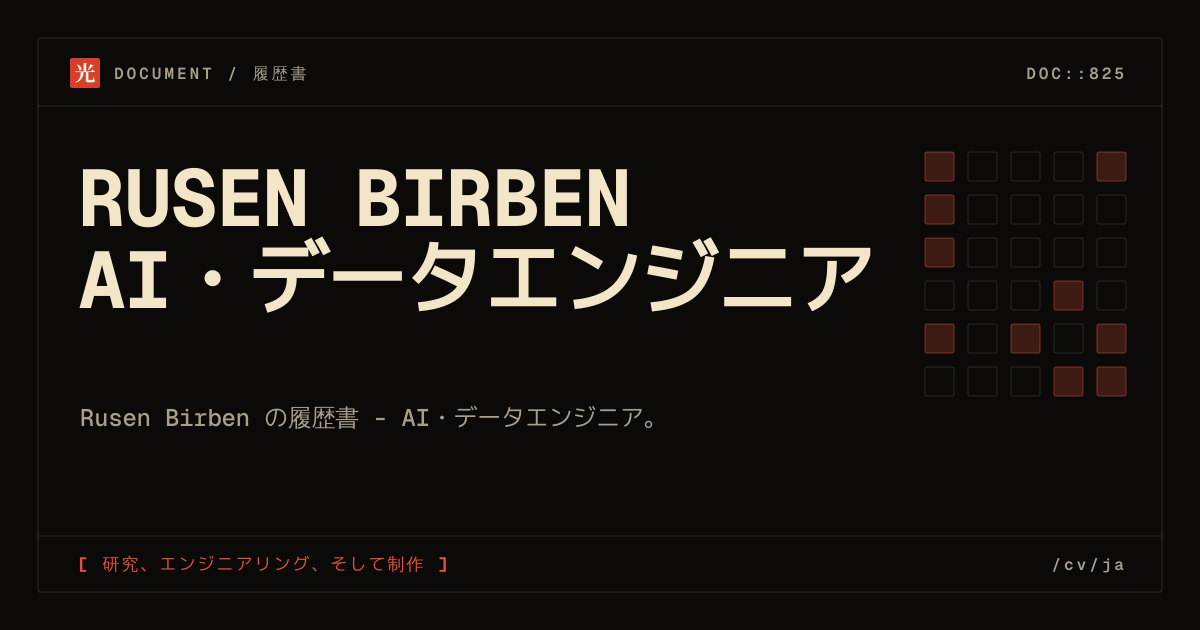
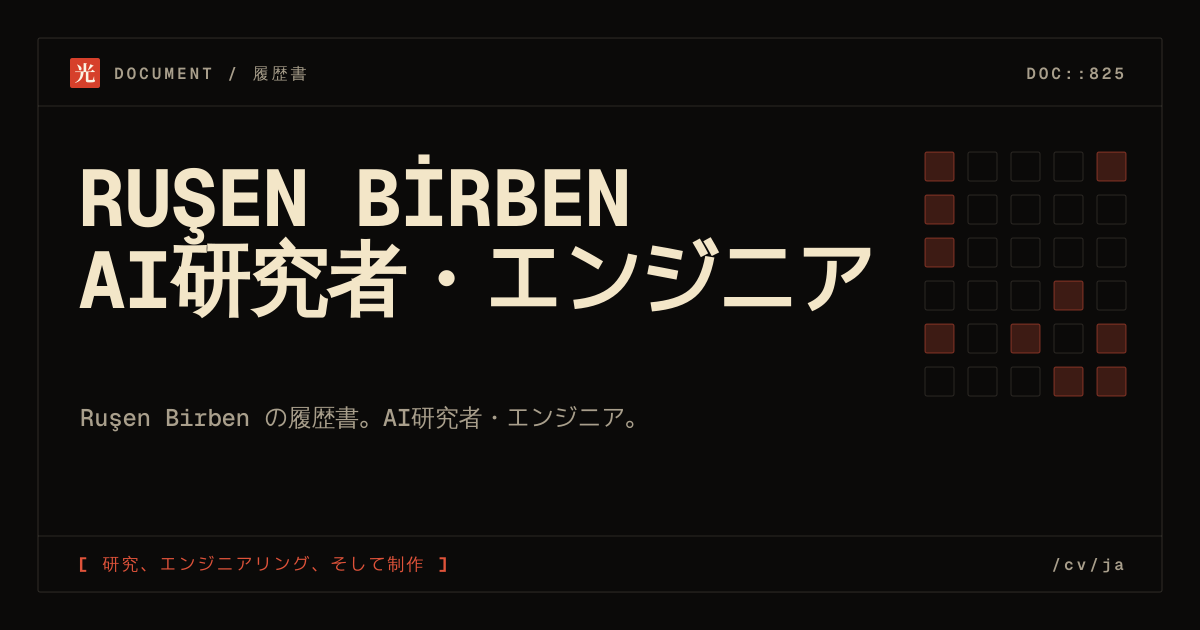
Titles and share text: rusen.ai, Ruşen Birben, new home line
Home tab is now "rusen.ai · Ruşen Birben" (was the old "AI & Data
Engineering Portfolio"), page titles use " · rusen.ai", CV describes an
AI researcher and engineer, and the home share card carries the hero quote.
Social cards rebuilt.

Changed region(s): [[0.1233, 0.3619, 0.4008, 0.5127], [0.3083, 0.6333, 0.5242, 0.6937], [0.3392, 0.2413, 0.37, 0.2714]]

diff --git a/src/app/blogs/tag/[tag]/page.tsx b/src/app/blogs/tag/[tag]/page.tsx
@@ -40,15 +40,15 @@ export async function generateMetadata({
   const postCount = matching.reduce((sum, item) => sum + item.count, 0);
   const metadataLang = matching[0].lang;
   const description = metadataLang === "tr"
-    ? `Rusen.ai üzerinde #${displayTag} etiketiyle yayımlanan ${postCount} yazı.`
-    : `${postCount} ${postCount === 1 ? "essay" : "essays"} filed under #${displayTag} on Rusen.ai.`;
+    ? `rusen.ai üzerinde #${displayTag} etiketiyle yayımlanan ${postCount} yazı.`
+    : `${postCount} ${postCount === 1 ? "essay" : "essays"} filed under #${displayTag} on rusen.ai.`;
 
   return buildSocialMetadata({
-    title: `#${displayTag} | Rusen.ai Blog`,
+    title: `#${displayTag} · rusen.ai blog`,
     description,
     path: `/blogs/tag/${tag}`,
     image: blogTagImagePath(tag),
-    imageAlt: `#${displayTag} — Rusen.ai blog archive`,
+    imageAlt: `#${displayTag} — rusen.ai blog archive`,
     locale: metadataLang === "tr" ? "tr_TR" : "en_US",
   });
 }

diff --git a/src/app/blogs/[slug]/page.tsx b/src/app/blogs/[slug]/page.tsx
@@ -63,17 +63,17 @@ export async function generateMetadata({
     ...(sibling ? { [sibling.lang]: `/blogs/${sibling.slug}` } : {}),
   };
   const meta = buildSocialMetadata({
-    title: `${post.title} | Rusen.ai`,
+    title: `${post.title} · rusen.ai`,
     description: post.description,
     path: `/blogs/${post.slug}`,
     image: blogPostImagePath(post.slug),
-    imageAlt: `${post.title} — Rusen.ai blog`,
+    imageAlt: `${post.title} — rusen.ai blog`,
     type: "article",
     locale: post.lang === "tr" ? "tr_TR" : "en_US",
     languages,
     article: {
       publishedTime: post.date,
-      authors: ["Rusen Birben"],
+      authors: [PERSON.name],
       tags: post.tags,
     },
   });

diff --git a/src/app/blogs/series/[id]/page.tsx b/src/app/blogs/series/[id]/page.tsx
@@ -28,11 +28,11 @@ export async function generateMetadata({
   if (!series) return {};
   const description = `${series.posts.length} connected essays in the ${series.title.en} series.`;
   return buildSocialMetadata({
-    title: `${series.title.en} | Rusen.ai`,
+    title: `${series.title.en} · rusen.ai`,
     description,
     path: `/blogs/series/${series.id}`,
     image: blogSeriesImagePath(series.id),
-    imageAlt: `${series.title.en} — Rusen.ai essay series`,
+    imageAlt: `${series.title.en} — rusen.ai essay series`,
   });
 }
 

diff --git a/src/lib/social-metadata.test.ts b/src/lib/social-metadata.test.ts
@@ -36,7 +36,7 @@ describe("social metadata", () => {
     const metadata = buildProjectMetadata("emergence");
     const image = firstOpenGraphImage(metadata);
 
-    expect(metadata.title).toBe("Emergence | Rusen.ai");
+    expect(metadata.title).toBe("Emergence · rusen.ai");
     expect(metadata.alternates?.canonical).toBe("/emergence");
     expect(image).toMatchObject({
       url: "/social/projects/emergence.png",

diff --git a/src/lib/project-metadata.ts b/src/lib/project-metadata.ts
@@ -11,7 +11,7 @@ export function buildProjectMetadata(projectKey: string): Metadata {
 
   const path = getProjectPath(project);
   const imagePath = `/social/projects/${project.slug}.png`;
-  const title = `${project.title} | ${SITE_NAME}`;
+  const title = `${project.title} · ${SITE_NAME}`;
   const description = project.summary;
 
   return buildSocialMetadata({

diff --git a/src/app/components/Footer.tsx b/src/app/components/Footer.tsx
@@ -81,7 +81,7 @@ export default function Footer() {
           <div className="flex items-center gap-4">
             <BgToggle />
             <p className="text-xs sm:text-sm text-muted">
-              &copy; {new Date().getFullYear()} Rusen Birben
+              &copy; {new Date().getFullYear()} Ruşen Birben
             </p>
           </div>
         </div>

diff --git a/src/app/not-found.tsx b/src/app/not-found.tsx
@@ -2,7 +2,7 @@ import type { Metadata } from "next";
 import NotFoundExperience from "./components/NotFoundExperience";
 
 export const metadata: Metadata = {
-  title: "Page not found | Rusen.ai",
+  title: "Page not found · rusen.ai",
   description: "The requested page could not be found.",
   robots: { index: false, follow: false },
   openGraph: null,

diff --git a/src/lib/social-metadata.ts b/src/lib/social-metadata.ts
@@ -2,7 +2,7 @@ import type { Metadata } from "next";
 
 import socialPages from "@/content/social-pages.json";
 
-export const SITE_NAME = "Rusen.ai";
+export const SITE_NAME = "rusen.ai";
 export const SITE_ORIGIN = "https://rusen.ai";
 export const SOCIAL_IMAGE_WIDTH = 1200;
 export const SOCIAL_IMAGE_HEIGHT = 630;
